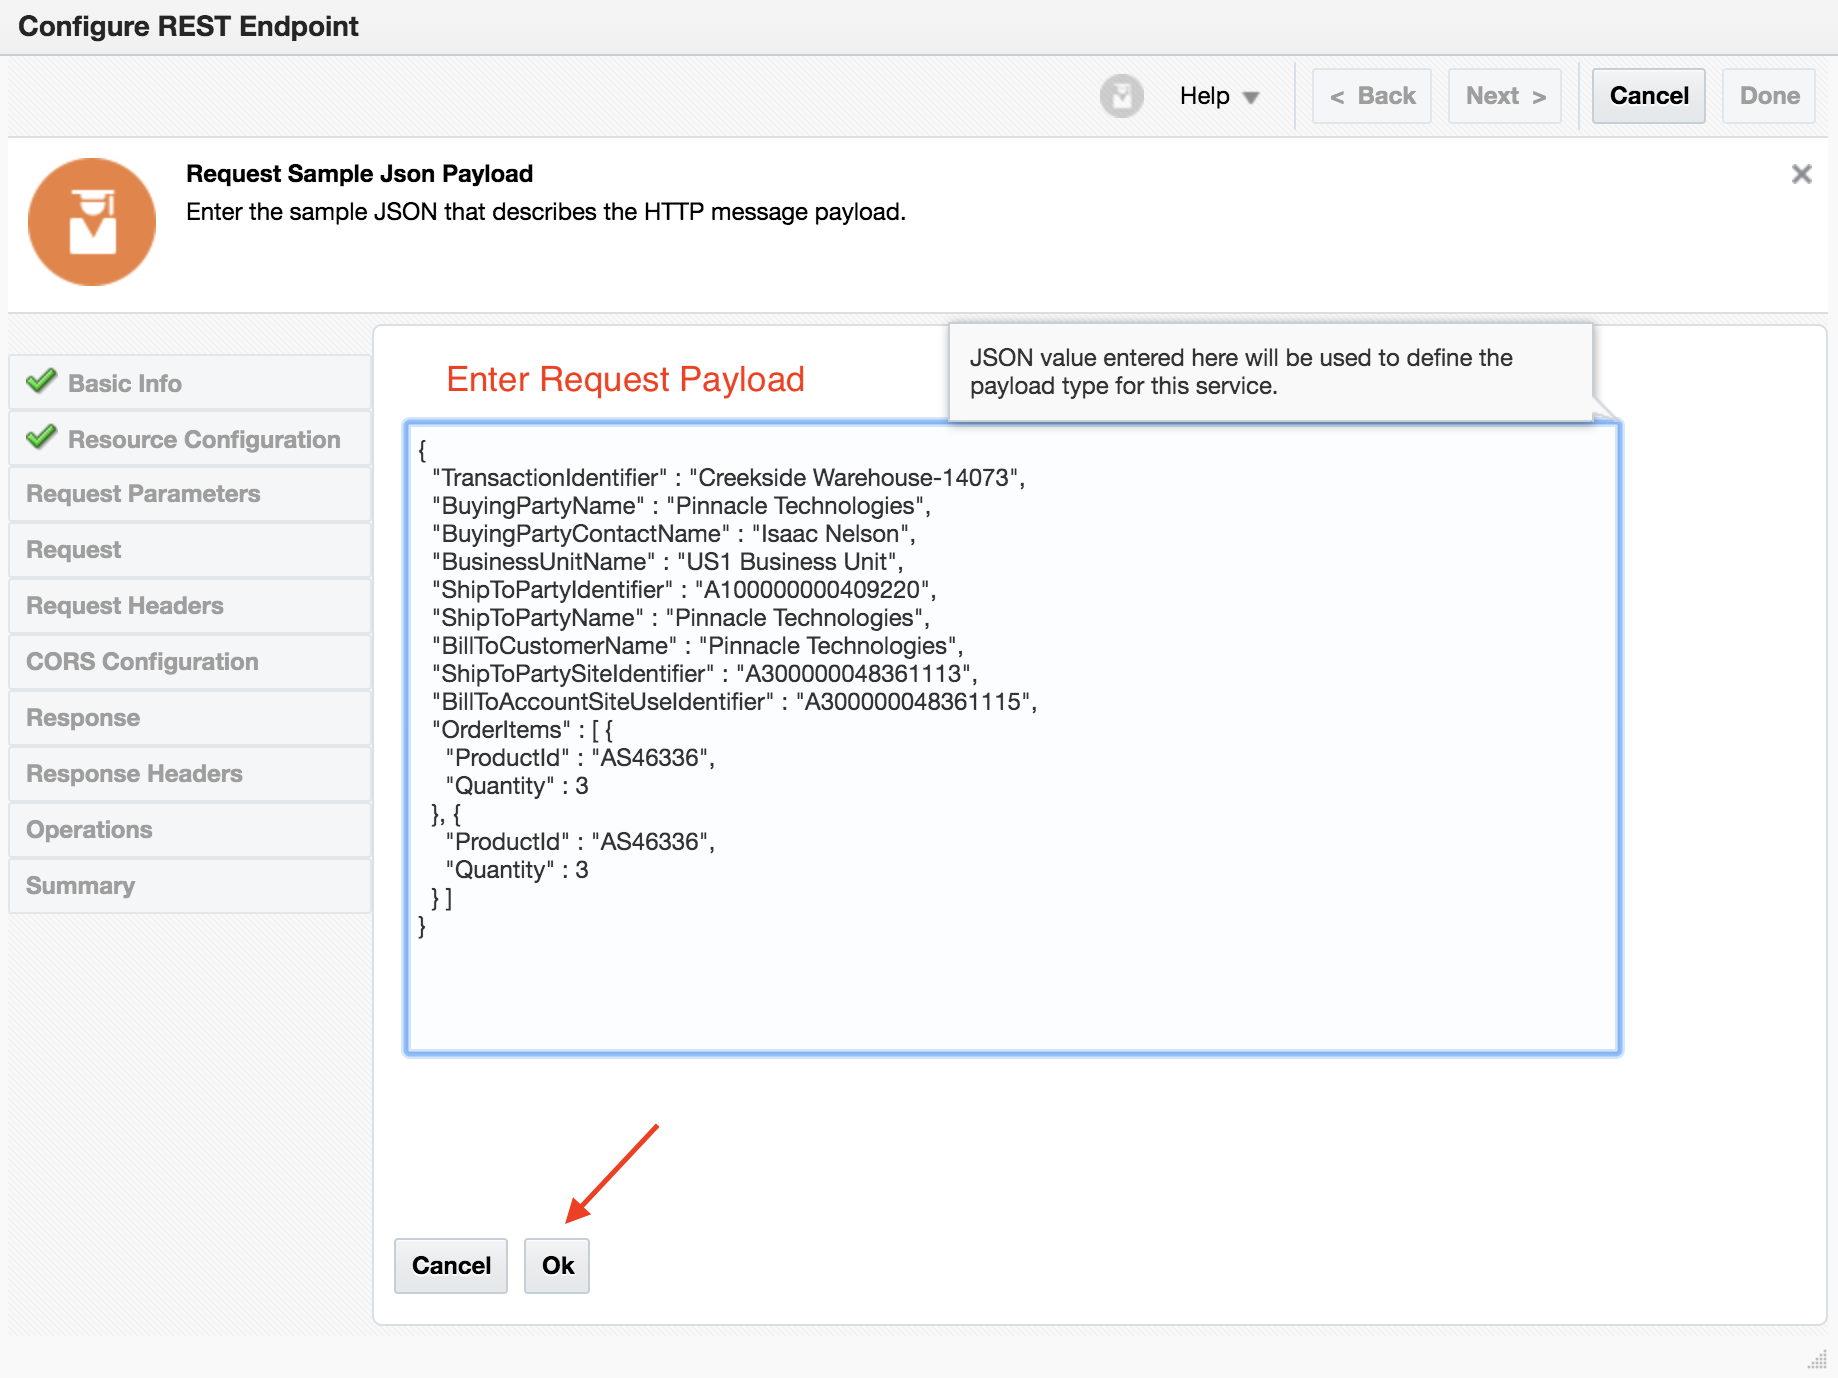
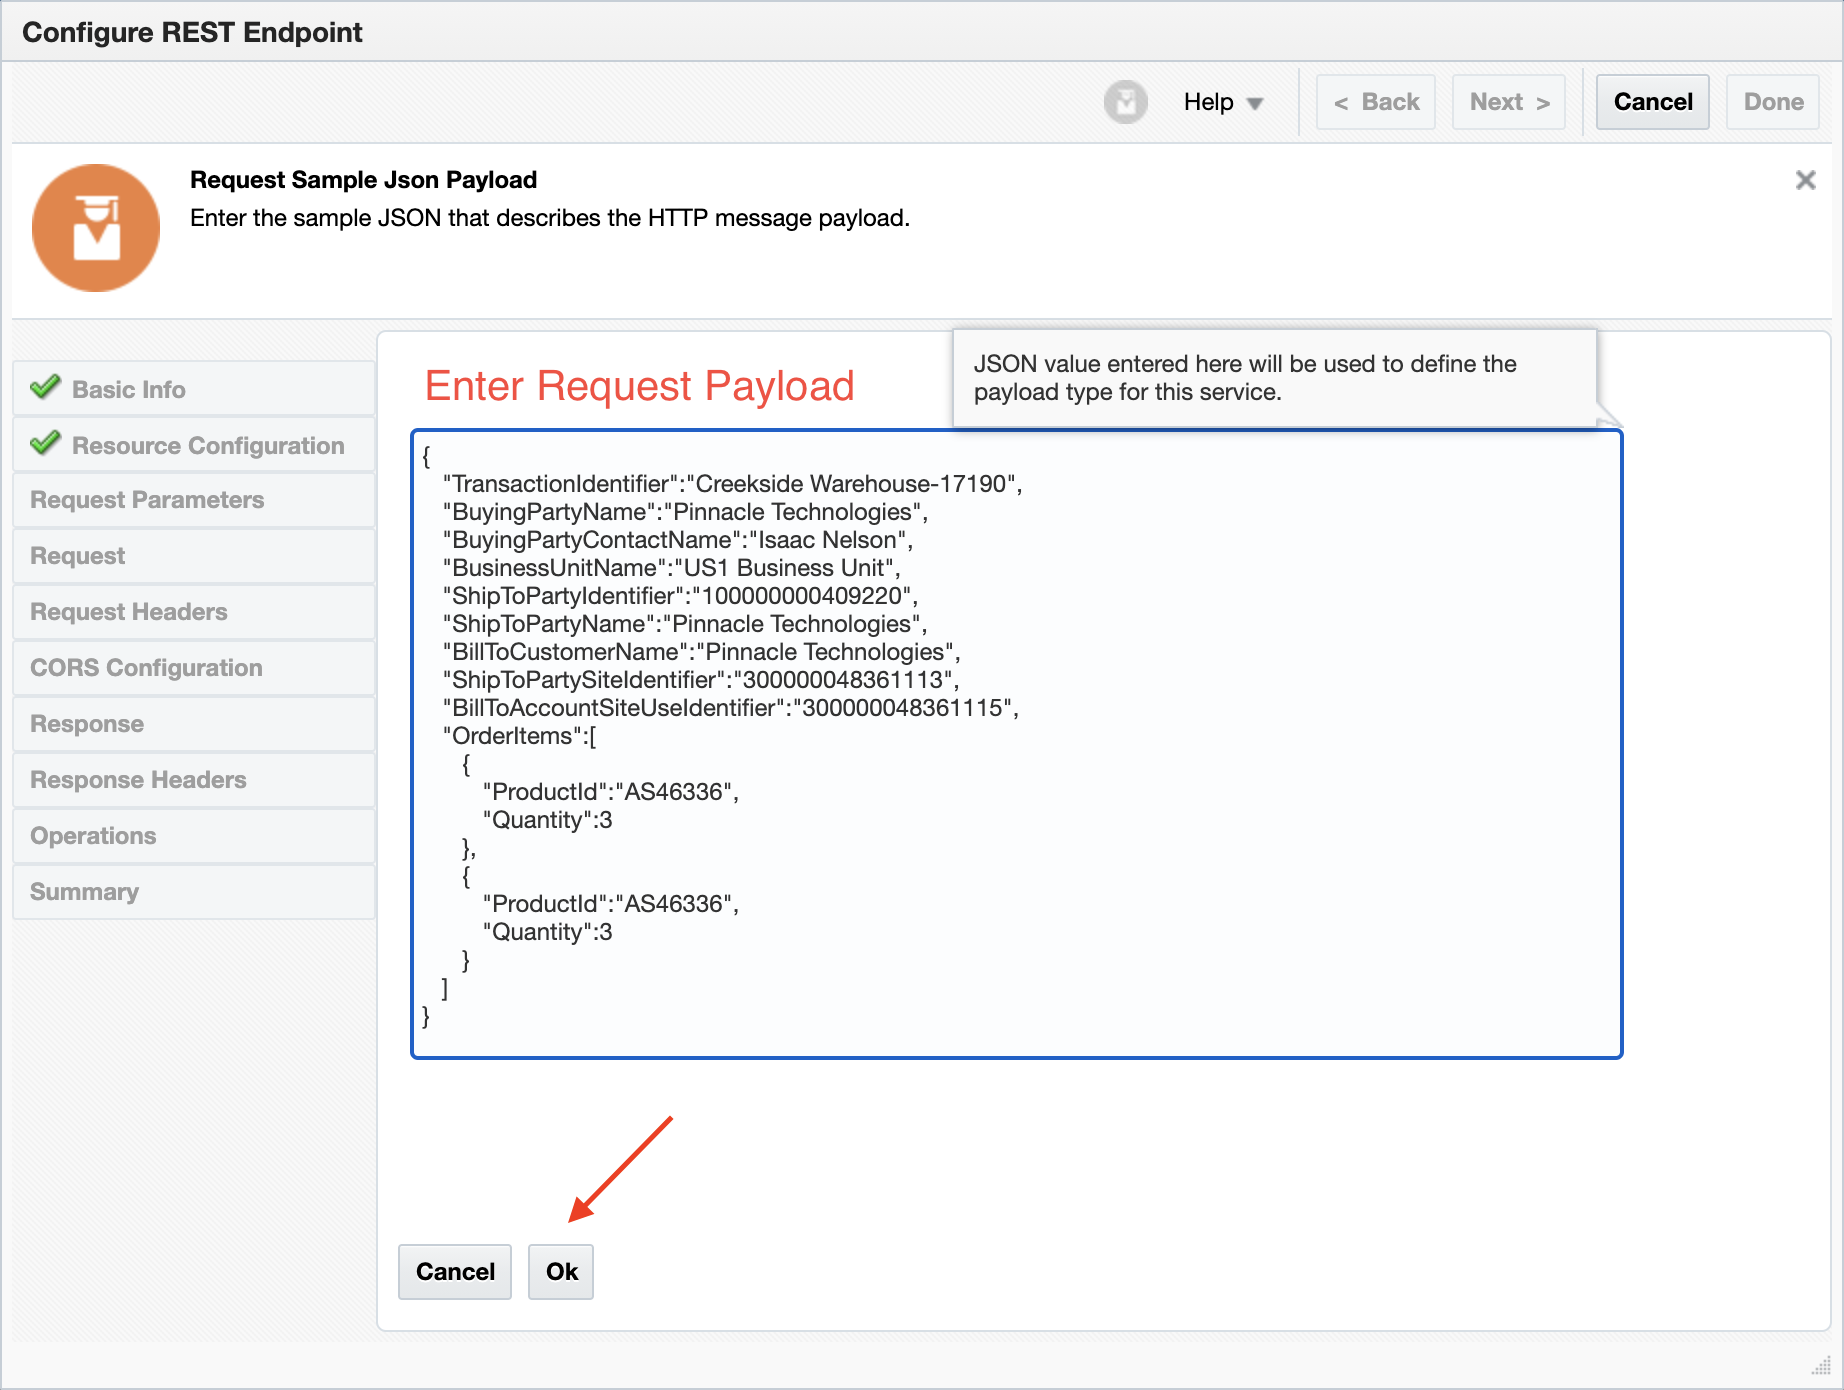
Updated JSON

diff --git a/Lab300A/LabGuide300A.md b/Lab300A/LabGuide300A.md
@@ -1,4 +1,4 @@
-# Lab 300A: Integrating Cloud ERP with OIC (INTERNAL ONLY)
+# Lab 300A: Integrating Cloud ERP with OIC
 <!-- Comment out table of contents
 ## Table of Contents
 [Introduction](#introduction)
@@ -192,22 +192,25 @@ You will need the following to be able to connect to the Oracle Autonomous Data 
 
 ```JSON
 {
-  "TransactionIdentifier" : "Creekside Warehouse-14073",
-  "BuyingPartyName" : "Pinnacle Technologies",
-  "BuyingPartyContactName" : "Isaac Nelson",
-  "BusinessUnitName" : "US1 Business Unit",
-  "ShipToPartyIdentifier" : "A100000000409220",
-  "ShipToPartyName" : "Pinnacle Technologies",
-  "BillToCustomerName" : "Pinnacle Technologies",
-  "ShipToPartySiteIdentifier" : "A300000048361113",
-  "BillToAccountSiteUseIdentifier" : "A300000048361115",
-  "OrderItems" : [ {
-    "ProductId" : "AS46336",
-    "Quantity" : 3
-  }, {
-    "ProductId" : "AS46336",
-    "Quantity" : 3
-  } ]
+   "TransactionIdentifier":"Creekside Warehouse-17190",
+   "BuyingPartyName":"Pinnacle Technologies",
+   "BuyingPartyContactName":"Isaac Nelson",
+   "BusinessUnitName":"US1 Business Unit",
+   "ShipToPartyIdentifier":"100000000409220",
+   "ShipToPartyName":"Pinnacle Technologies",
+   "BillToCustomerName":"Pinnacle Technologies",
+   "ShipToPartySiteIdentifier":"300000048361113",
+   "BillToAccountSiteUseIdentifier":"300000048361115",
+   "OrderItems":[
+      {
+         "ProductId":"AS46336",
+         "Quantity":3
+      },
+      {
+         "ProductId":"AS46336",
+         "Quantity":3
+      }
+   ]
 }
 
 ```
@@ -442,7 +445,7 @@ You will need the following to be able to connect to the Oracle Autonomous Data 
 -   Enter the following payload to test your API. Then click **Send Button**. 
 
 ```JSON
-{ "TransactionIdentifier": "Creekside Warehouse-14073", "BuyingPartyName": "Pinnacle Technologies", "BuyingPartyContactName": "Isaac Nelson", "BusinessUnitName": "US1 Business Unit", "ShipToPartyIdentifier": "100000000409220", "ShipToPartyName": "Pinnacle Technologies", "BillToCustomerName": "Pinnacle Technologies", "ShipToPartySiteIdentifier": "300000048361113", "BillToAccountSiteUseIdentifier": "300000048361115", "OrderItems": [ { "ProductId": "AS46336", "Quantity": 3 }, { "ProductId": "AS46336", "Quantity": 3 } ] }
+{ "TransactionIdentifier": "Creekside Warehouse-17190", "BuyingPartyName": "Pinnacle Technologies", "BuyingPartyContactName": "Isaac Nelson", "BusinessUnitName": "US1 Business Unit", "ShipToPartyIdentifier": "100000000409220", "ShipToPartyName": "Pinnacle Technologies", "BillToCustomerName": "Pinnacle Technologies", "ShipToPartySiteIdentifier": "300000048361113", "BillToAccountSiteUseIdentifier": "300000048361115", "OrderItems": [ { "ProductId": "AS46336", "Quantity": 3 }, { "ProductId": "AS46336", "Quantity": 3 } ] }
 ```
 
 ![](./images/Postman3.png " ")
